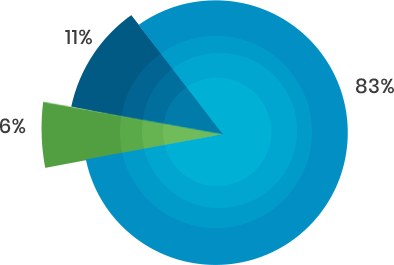
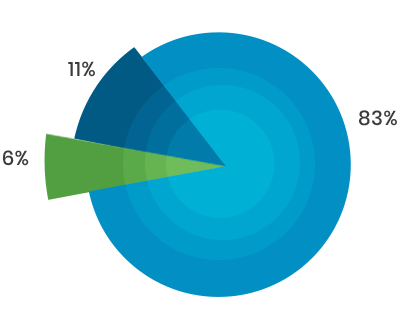
adjusted chart graphic and added image heights and widths

Changed region(s): [[0.0, 0.0, 1.0, 1.0], [0.5178, 0.4226, 0.5482, 0.4528]]

diff --git a/index.html b/index.html
@@ -61,7 +61,7 @@
   <header class="main-header">
     <div class="p-4 p-md-5">
       <div class="row">
-        <div class="col-md-3"><img src="assets/images/logo-rev.png" alt="CSC Logo 2-color"/></div>
+        <div class="col-md-3"><img src="assets/images/logo-rev.png" alt="CSC Logo 2-color" width="199" height="48"/></div>
         <div class="d-none d-lg-flex col-md-9 justify-content-end">
           <div class="pr-3"><strong class="text-white">Quick Links:</strong></div>
           <nav class="text-md-right primary-nav-container">
@@ -88,7 +88,7 @@
           See What’s Possible </h1>
         <button class="pill-rev arrow-right text-larger">explore</button>
       </div>
-      <div class="col-md-6 d-none d-md-block"> <img src="assets/images/hero1.png" alt="CSC Hero Image"></div>
+      <div class="col-md-6 d-none d-md-block"> <img src="assets/images/hero1.png" alt="CSC Hero Image" width="514" height="424"></div>
     </div>
   </div>
 </section>
@@ -97,7 +97,7 @@
     <h2>About Cleveland Sight Center (CSC)</h2>
     <div class="row">
       <div class="col-md-6 text-center">
-        <div class="mr-md-5 mb-4"><img src="assets/images/hero2.png" alt="Woman walking"/><br/>
+        <div class="mr-md-5 mb-4"><img src="assets/images/hero2.png" alt="Woman walking" width="317" height="414"/><br/>
           <img src="assets/images/logos.png" alt="Logos" /> </div>
       </div>
       <div class="col-md-6">
@@ -112,7 +112,7 @@
 <header class="d-none d-lg-block sticky-header bg-white">
   <div class="p-4 p-md-5">
     <div class="row">
-      <div class="col-md-3"><img src="assets/images/logo-2c.png" alt="CSC Logo 2-color"/></div>
+      <div class="col-md-3"><img src="assets/images/logo-2c.png" alt="CSC Logo 2-color" width="199" height="48"/></div>
       <div class="col-md-9 d-flex justify-content-end">
         <nav class="secondary-nav-container">
           <ul class="secondary-nav">
@@ -137,7 +137,7 @@
     <div class="row">
       <div class="col-md-5">
         <div class="mr-md-5">
-          <div class="spacer-bottom"><img src="assets/images/headshots.png" alt="Leadership headshots" /></div>
+          <div class="spacer-bottom"><img src="assets/images/headshots.png" alt="Leadership headshots" width="332" height="351" /></div>
           <div class="p-3">
             <p class="leading-quote">The isolation we are all experiencing [during COVID-19] is a scary and lonely feeling – unable to see our loved ones, unsure of our surroundings and trying to figure out our new normal. However, for people living with blindness and low vision, like me, this is our daily life.”</p>
             <p><em>- Alicia Howerton, Cleveland Sight Center staff member and client</em></p>
@@ -164,79 +164,79 @@
       <div class="col-md-6 mb-4">
         <h2 class="bar-bottom mb-0">What Did We Do?</h2>
       </div>
-      <div class="col-md-6 text-right mb-4"><img src="assets/images/hero3.png" alt="Desktop Monitor" /></div>
+      <div class="col-md-6 text-right mb-4"><img src="assets/images/hero3.png" alt="Desktop Monitor" width="439" height="287" /></div>
     </div>
     <p class="text-larger">In mid-March of 2020, Cleveland Sight Center’s main building closed due to the uncertainties of COVID-19. Similar to many other businesses, we had to quickly pivot our traditional in-person services to a remote service model. For CSC, there was one drastic difference – our clients are blind or visually impaired and rely on their sense of touch during trainings with staff – which limited the amount of remote services we could perform.</p>
     <p class="text-larger">In May, staff recognized that our clients still needed vital in-person services that couldn’t be offered remotely. So, staff followed all safety guidelines, put on their PPE and delivered in-person services – providing essential relief to isolated clients in need throughout the year.</p>
     <p class="text-larger">Together, our clients and staff adapted, overcame obstacles and allowed us to <strong>see what is possible by serving 5,522 people through direct services and outreach in innovative ways:</strong></p>
     <div class="row align-items-center">
-      <div class="col-md-2 text-center mb-3"><img src="assets/images/icon-laptop.png" alt="Laptop Icon" /></div>
+      <div class="col-md-2 text-center mb-3"><img src="assets/images/icon-laptop.png" alt="Laptop Icon" width="107" height="104" /></div>
       <div class="col-md-10 mb-4"><strong>Bright Futures Preschool Went Virtual</strong>
         <p>Instruction to students and parents was provided through interactive online sessions.</p>
       </div>
     </div>
     <div class="row align-items-center">
-      <div class="col-md-2 text-center mb-3"><img src="assets/images/icon-family.png" alt="Family Icon" /></div>
+      <div class="col-md-2 text-center mb-3"><img src="assets/images/icon-family.png" alt="Family Icon" width="107" height="104" /></div>
       <div class="col-md-10 mb-4"><strong>Early Intervention Staff Got Creative</strong>
         <p>Virtual instruction to children (0-3) and their caregivers was provided and do-it-yourself tactile projects were mailed home.</p>
       </div>
     </div>
     <div class="row align-items-center">
-      <div class="col-md-2 text-center mb-3"><img src="assets/images/icon-braille.png" alt="Braille Icon" /></div>
+      <div class="col-md-2 text-center mb-3"><img src="assets/images/icon-braille.png" alt="Braille Icon" width="107" height="104" /></div>
       <div class="col-md-10 mb-4"><strong>Braille Instruction Happened Remotely</strong>
         <p>Braille classes were taught as students followed along with their textbooks over the telephone.</p>
       </div>
     </div>
     <div class="row align-items-center">
-      <div class="col-md-2 text-center mb-3"><img src="assets/images/icon-scientist.png" alt="Pharmacist Icon" /></div>
+      <div class="col-md-2 text-center mb-3"><img src="assets/images/icon-scientist.png" alt="Pharmacist Icon" width="107" height="104" /></div>
       <div class="col-md-10 mb-4"><strong>Low Vision Clinic Served Patients in New Ways</strong>
         <p>The clinic conducted tele-health appointments, serving 823 patients.</p>
       </div>
     </div>
     <div class="row align-items-center">
-      <div class="col-md-2 text-center mb-3"><img src="assets/images/icon-box.png" alt="Shipping Box Icon" /></div>
+      <div class="col-md-2 text-center mb-3"><img src="assets/images/icon-box.png" alt="Shipping Box Icon" width="107" height="104" /></div>
       <div class="col-md-10 mb-4"><strong>Eyedea Shop Continued to Fill Orders</strong>
         <p>The retail store continued to process and fill orders, shipping essential tools like magnifiers and ‘talking’ devices to 1,487 customers in Ohio and beyond.</p>
       </div>
     </div>
     <div class="row align-items-center">
-      <div class="col-md-2 text-center mb-3"><img src="assets/images/icon-marketing.png" alt="Social Media Icon" /></div>
+      <div class="col-md-2 text-center mb-3"><img src="assets/images/icon-marketing.png" alt="Social Media Icon" width="107" height="104" /></div>
       <div class="col-md-10 mb-4"><strong>Communication Platforms Provided Resources and Information</strong>
         <p>Cleveland Sight Center’s Radio Reading Network (CSCN), social media channels and website featured COVID-19 community resources for the blind and visually impaired community.</p>
       </div>
     </div>
     <div class="row align-items-center">
-      <div class="col-md-2 text-center mb-3"><img src="assets/images/icon-meditate.png" alt="Meditation Icon"/></div>
+      <div class="col-md-2 text-center mb-3"><img src="assets/images/icon-meditate.png" alt="Meditation Icon" width="107" height="104" /></div>
       <div class="col-md-10 mb-4"><strong>Virtual Recreation Programs Were Offered</strong>
         <p>The Recreation team created engaging and interactive activities like meditation, yoga and wellness programs online. View an online program</p>
       </div>
     </div>
     <div class="row align-items-center">
-      <div class="col-md-2 text-center mb-3"><img src="assets/images/icon-chat.png" alt="Chat Icon" /></div>
+      <div class="col-md-2 text-center mb-3"><img src="assets/images/icon-chat.png" alt="Chat Icon" width="107" height="104" /></div>
       <div class="col-md-10 mb-4"><strong>Staff Conducted Client Wellness Check-Ins</strong>
         <p>Staff members made phone calls to more than 4,000 clients to check-in on their well-being.</p>
       </div>
     </div>
     <div class="row align-items-center">
-      <div class="col-md-2 text-center mb-3"><img src="assets/images/icon-phone.png" alt="Phone Icon"/></div>
+      <div class="col-md-2 text-center mb-3"><img src="assets/images/icon-phone.png" alt="Phone Icon" width="107" height="104"/></div>
       <div class="col-md-10 mb-4"><strong>Call Center Maintained High Quality Work</strong>
         <p>580,729 calls and emails were handled by the Call Center in 2020 with quality scores at 97% and caller satisfaction scores at 96%. Learn more about the Call Center</p>
       </div>
     </div>
     <div class="row align-items-center">
-      <div class="col-md-2 text-center mb-3"><img src="assets/images/icon-calendar.png" alt="Calendar Icon" /></div>
+      <div class="col-md-2 text-center mb-3"><img src="assets/images/icon-calendar.png" alt="Calendar Icon" width="107" height="104" /></div>
       <div class="col-md-10 mb-4"><strong>Fundraising Events Pivoted</strong>
         <p>White Cane Walk and Spellbound pivoted to a virtual format, engaging participants in new and creative ways while raising necessary financial support for the agency.</p>
       </div>
     </div>
     <div class="row align-items-center">
-      <div class="col-md-2 text-center mb-3"><img src="assets/images/icon-screen.png" alt="Projection Screen Icon" /></div>
+      <div class="col-md-2 text-center mb-3"><img src="assets/images/icon-screen.png" alt="Projection Screen Icon" width="107" height="104" /></div>
       <div class="col-md-10 mb-4"><strong>Community Outreach Continued</strong>
         <p>The Outreach team delivered 120 presentations about visual impairments – reaching medical professionals, caregivers and potential clients.</p>
       </div>
     </div>
     <div class="row align-items-center">
-      <div class="col-md-2 text-center mb-3"><img src="assets/images/icon-services.png" alt="Presenter Icon" /></div>
+      <div class="col-md-2 text-center mb-3"><img src="assets/images/icon-services.png" alt="Presenter Icon" width="107" height="104" /></div>
       <div class="col-md-10 mb-4"><strong>Employment Services Expanded Reach</strong>
         <p>Job development and training services quickly pivoted to a virtual format which expanded services to include Akron and Youngstown. </p>
       </div>
@@ -246,7 +246,7 @@
 <section id="learn" class="bg-pattern-light bg-position-top">
   <div class="inner-container">
     <div class="row align-items-center mb-4">
-      <div class="col-md-6 text-left mb-4"><img src="assets/images/hero4.png" alt="Woman on Headset" /></div>
+      <div class="col-md-6 text-left mb-4"><img src="assets/images/hero4.png" alt="Woman on Headset" width="405" height="316" /></div>
       <div class="col-md-6">
         <h2 class="bar-bottom-darker mb-0">What Did We Learn?</h2>
       </div>
@@ -296,7 +296,7 @@
       <div class="col-md-7 mb-4">
         <h2 class="bar-bottom mb-0">Board of Trustees</h2>
       </div>
-      <div class="col-md-5 text-right"><img src="assets/images/hero5.png" alt="People climbing mountain" /></div>
+      <div class="col-md-5 text-right"><img src="assets/images/hero5.png" alt="People climbing mountain" width="398" height="269" /></div>
     </div>
     <h4 class="underline mb-4">Officers and Executive Committee</h4>
     <div class="columns-lg-3 columns-md-2 mb-4">
@@ -368,7 +368,7 @@
       <div class="col-md-7 mb-4">
         <h2 class="bar-bottom mb-0">Thank You Donors and Volunteers!</h2>
       </div>
-      <div class="col-md-5 text-right"><img src="assets/images/hero5.png" alt="People climbing mountain" /></div>
+      <div class="col-md-5 text-right"><img src="assets/images/hero5.png" alt="People climbing mountain" width="398" height="269" /></div>
     </div>
     <div class="row mb-4">
       <div class="col-md-8 text-larger">
@@ -585,8 +585,8 @@
       </div>
     </div>
     <div class="row mb-5">
-      <div class="col-md-4 text-center"> <img src="assets/images/chart-revenue.png" alt="Chart - 2020 Revenue"/> </div>
-      <div class="col-md-8">
+      <div class="col-md-6 text-center"> <img src="assets/images/chart-revenue.png" alt="Chart - 2020 Revenue" width="400" height="330"/> </div>
+      <div class="col-md-6">
         <h3>Revenue</h3>
         <p class="text-larger">$9.5 Million in 2020</p>
         <div class="row">
@@ -599,7 +599,7 @@
     </div>
     <hr class="divider" />
     <div class="row mt-5">
-      <div class="col-md-8">
+      <div class="col-md-6">
         <h3>Expenses</h3>
         <p class="text-larger">9.5 Million in 2020</p>
         <div class="row">
@@ -608,14 +608,14 @@
           <div class="col-6 financials-legend dot4">Fundraising</div>
         </div>
       </div>
-      <div class="col-md-4 text-center"> <img src="assets/images/chart-expenses.png" alt="Chart - 2020 Expenses"/> </div>
+      <div class="col-md-6 text-center"> <img src="assets/images/chart-expenses.png" alt="Chart - 2020 Expenses" width="400" height="330"/> </div>
     </div>
   </div>
 </section>
 <footer class="bg-dark">
   <div class="p-4 p-md-5">
     <div class="row align-items-center">
-      <div class="col-md-3 text-center mb-4"><img src="assets/images/logo-rev.png" alt="CSC Logo 2-color"/></div>
+      <div class="col-md-3 text-center mb-4"><img src="assets/images/logo-rev.png" alt="CSC Logo 2-color" width="199" height="48"/></div>
       <div class="col-md-9 text-center text-md-right">
         <div><a href="#" class="text-rev arrow-right">Continue Your Support</a></div>
       </div>
